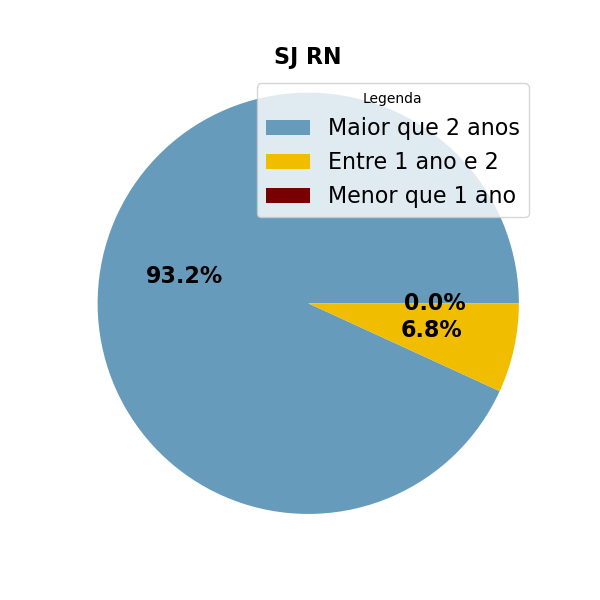
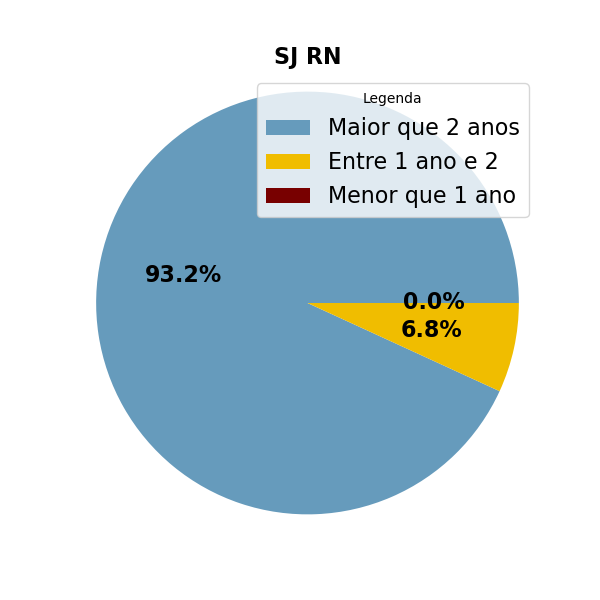
feat: design responsivo -> Enviado para DR BRUNO

diff --git a/sender_alternative.py b/sender_alternative.py
@@ -4,25 +4,16 @@ from email.mime.multipart import MIMEMultipart
 from email.mime.application import MIMEApplication
 from email.mime.image import MIMEImage
 from datetime import date
+import pandas as pd
 
 data = date.today()
 data = data.strftime('%d/%m/%Y')
 
-
-import base64
-
-
 strFrom = "instantredalert@gmail.com"
-#sender_email = "instantredalert@gmail.com"
-#receiver_email = "r_juscelinoaraujo@jfrn.jus.br"
-#receiver_email = "deboracamilanobre@gmail.com"
-#strTo = "matheusk500@hotmail.com"
-strTo = "matheusk500@hotmail.com"
-#receiver_email = "vitor848485@gmail.com"
+strTo = "joovitor177@gmail.com"
 password = 'ymmh doef rovb ntvk'
-    
-# Create the root message 
 
+# Create the root message
 msgRoot = MIMEMultipart('related')
 msgRoot['Subject'] = 'test message'
 msgRoot['From'] = strFrom
@@ -35,32 +26,27 @@ msgRoot.attach(msgAlternative)
 msgText = MIMEText('Alternative plain text message.')
 msgAlternative.attach(msgText)
 
-import pandas as pd
+# Read and prepare the table
 dtype_map = {'Sigla': str, 'Entre 1 ano e 2': int, 'Maior que 2 anos': int, 'Menor que 1 ano': int}
 tabela_ordenada = pd.read_csv('prescricao_resumo.csv', dtype=dtype_map, index_col=False)
-tabela_ordenada.index+=1
-
-
+tabela_ordenada.index += 1
 
 conteudo_tabela = tabela_ordenada.to_html()
 cleaned_html = conteudo_tabela.replace('border="1"', '').replace('class="dataframe"', '')
 styled_html = cleaned_html.replace('<table>', '<table style="border-collapse: collapse; width: 100%;">').replace('<tr>', '<tr style="background-color: #f2f2f2;">')
 html_modificado = styled_html.replace('text-align: right;', 'text-align: center;')
 
-#sem_border = conteudo_tabela[]
-print(cleaned_html)
-
-variable = """
+variable = f"""
 <head>
     <meta charset="UTF-8">
     <meta name="viewport" content="width=device-width, initial-scale=1.0">
     <title>Relatório Mensal de Prescrição e Improbidade Administrativa</title>
     <style>
-        body {
+        body {{
             font-family: "Verdana", "sans-serif";
-        }
+        }}
 
-        .titulo {
+        .titulo {{
             font-size: 1.5em;
             font-weight: bold;
             text-align: center;
@@ -68,9 +54,9 @@ variable = """
             padding: 0.5em 0 0.5em 0.5em;
             position: relative;
             margin-bottom: 0;
-        }
+        }}
 
-        .subtitulo {
+        .subtitulo {{
             font-size: 0.8em;
             text-align: center;
             background-color: #E8E8E8;
@@ -78,97 +64,106 @@ variable = """
             margin-top: 0;
             position: relative;
             top: 0;
-        }
+        }}
 
-        .tabela_de_imagens {
+        .tabela_de_imagens {{
             align-items: center;
-            margin: 2em auto; /* centraliza a tabela horizontalmente */
-            display: table; /* para centralizar verticalmente */
-            border-spacing: 0; /* remove o espaçamento entre as células da tabela */
-        }
+            margin: 2em auto;
+            display: table;
+            border-spacing: 0;
+        }}
 
-        .footer {
+        .footer {{
             text-align: center;
             background-color: #ADADAD;
             width: 100%;
             padding: 1em 0;
             margin-top: 1em;
-        }
+        }}
 
-        .grafico {
-            width: 14em;
-            padding: 0; /* remove o padding entre as imagens */
-            margin: 0; /* remove a margem entre as imagens */
-            display: block; /* garante que a imagem seja tratada como um bloco */
-        }
+        .grafico {{
+            width: 100%;
+            max-width: 400px;
+            padding: 0;
+            margin: 0;
+            display: block;
+        }}
 
-        table {
+        table {{
             margin: auto;
-        }
+        }}
 
-        th {
+        th {{
             font-weight: bold;
-        }
+        }}
 
-        th,
-        td {
+        th, td {{
             padding: 8px;
             white-space: nowrap;
-        }
+        }}
 
-        td {
+        td {{
             padding: 10px;
             text-align: center;
             width: 120px;
             font-weight: none;
             word-wrap: break-word;
-        }
+        }}
 
-        tr:nth-child(even) {
+        tr:nth-child(even) {{
             background-color: #E8E8E8;
-        }
+        }}
 
-        tr:hover:nth-child(1n + 2) {
+        tr:hover:nth-child(1n + 2) {{
             background-color: #6b6a6a;
             color: #fff;
-        }
+        }}
+
+        @media (max-width: 600px) {{
+            .grafico {{
+                width: 100%;
+                max-width: 200px;
+            }}
+            .titulo {{
+                font-size: 1.2em;
+            }}
+            .subtitulo {{
+                font-size: 0.7em;
+            }}
+        }}
     </style>
 </head>
 
 <body>
     <div>
-        <p class="titulo">Relatório Mensal Prescrição em Improbidade
-            Administrativa e Geral
-            <span id="sigla"></span>
-        </p>
-        <p class="subtitulo">Data de extração: <strong id="data_extracao">""" + str(data) + """</strong></p>
+        <p class="titulo">Relatório Mensal Prescrição em Improbidade Administrativa e Geral</p>
+        <p class="subtitulo">Data de extração: <strong>{data}</strong></p>
 
         <table class="tabela_de_imagens">
             <tr>
                 <td>
-                    <img class="grafico" src="cid:image0"/>
+                    <img class="grafico" src="cid:image0" style="width: 250px; height: 250px;" />
                 </td>
                 <td>
-                    <img class="grafico" src="cid:image1"/>
+                    <img class="grafico" src="cid:image1" style="width: 250px; height: 250px;" />
                 </td>
                 <td>
-                    <img class="grafico" src="cid:image2"/>
+                    <img class="grafico" src="cid:image2" style="width: 250px; height: 250px;" />
                 </td>
             </tr>
             <tr>
                 <td>
-                    <img class="grafico" src="cid:image3"/>
+                    <img class="grafico" src="cid:image3" style="width: 250px; height: 250px;" />
                 </td>
                 <td>
-                    <img class="grafico" src="cid:image4"/>
+                    <img class="grafico" src="cid:image4" style="width: 250px; height: 250px;" />
                 </td>
                 <td>
-                    <img class="grafico" src="cid:image5"/>
+                    <img class="grafico" src="cid:image5" style="width: 250px; height: 250px;" />
                 </td>
             </tr>
         </table>
     </div>
-
     <div>
         <p class="secao">
         </p>

diff --git a/gerarGrafico.py b/gerarGrafico.py
@@ -4,9 +4,12 @@ import pandas as pd
 
 dataframe = pd.read_csv('prescricao_resumo.csv')
 
-# Definindo as cores padrão para cada categoria
+# Definindo as novas cores para cada categoria
+
+#         AZUL        AMARELO   VERMELHO
 cores = ['#669BBC', '#f0bd00', '#780000']
 
+# Ajustando as labels para corresponderem às cores
 labels = ['Maior que 2 anos', 'Entre 1 ano e 2', 'Menor que 1 ano']
 
 for i in range(len(dataframe)):
